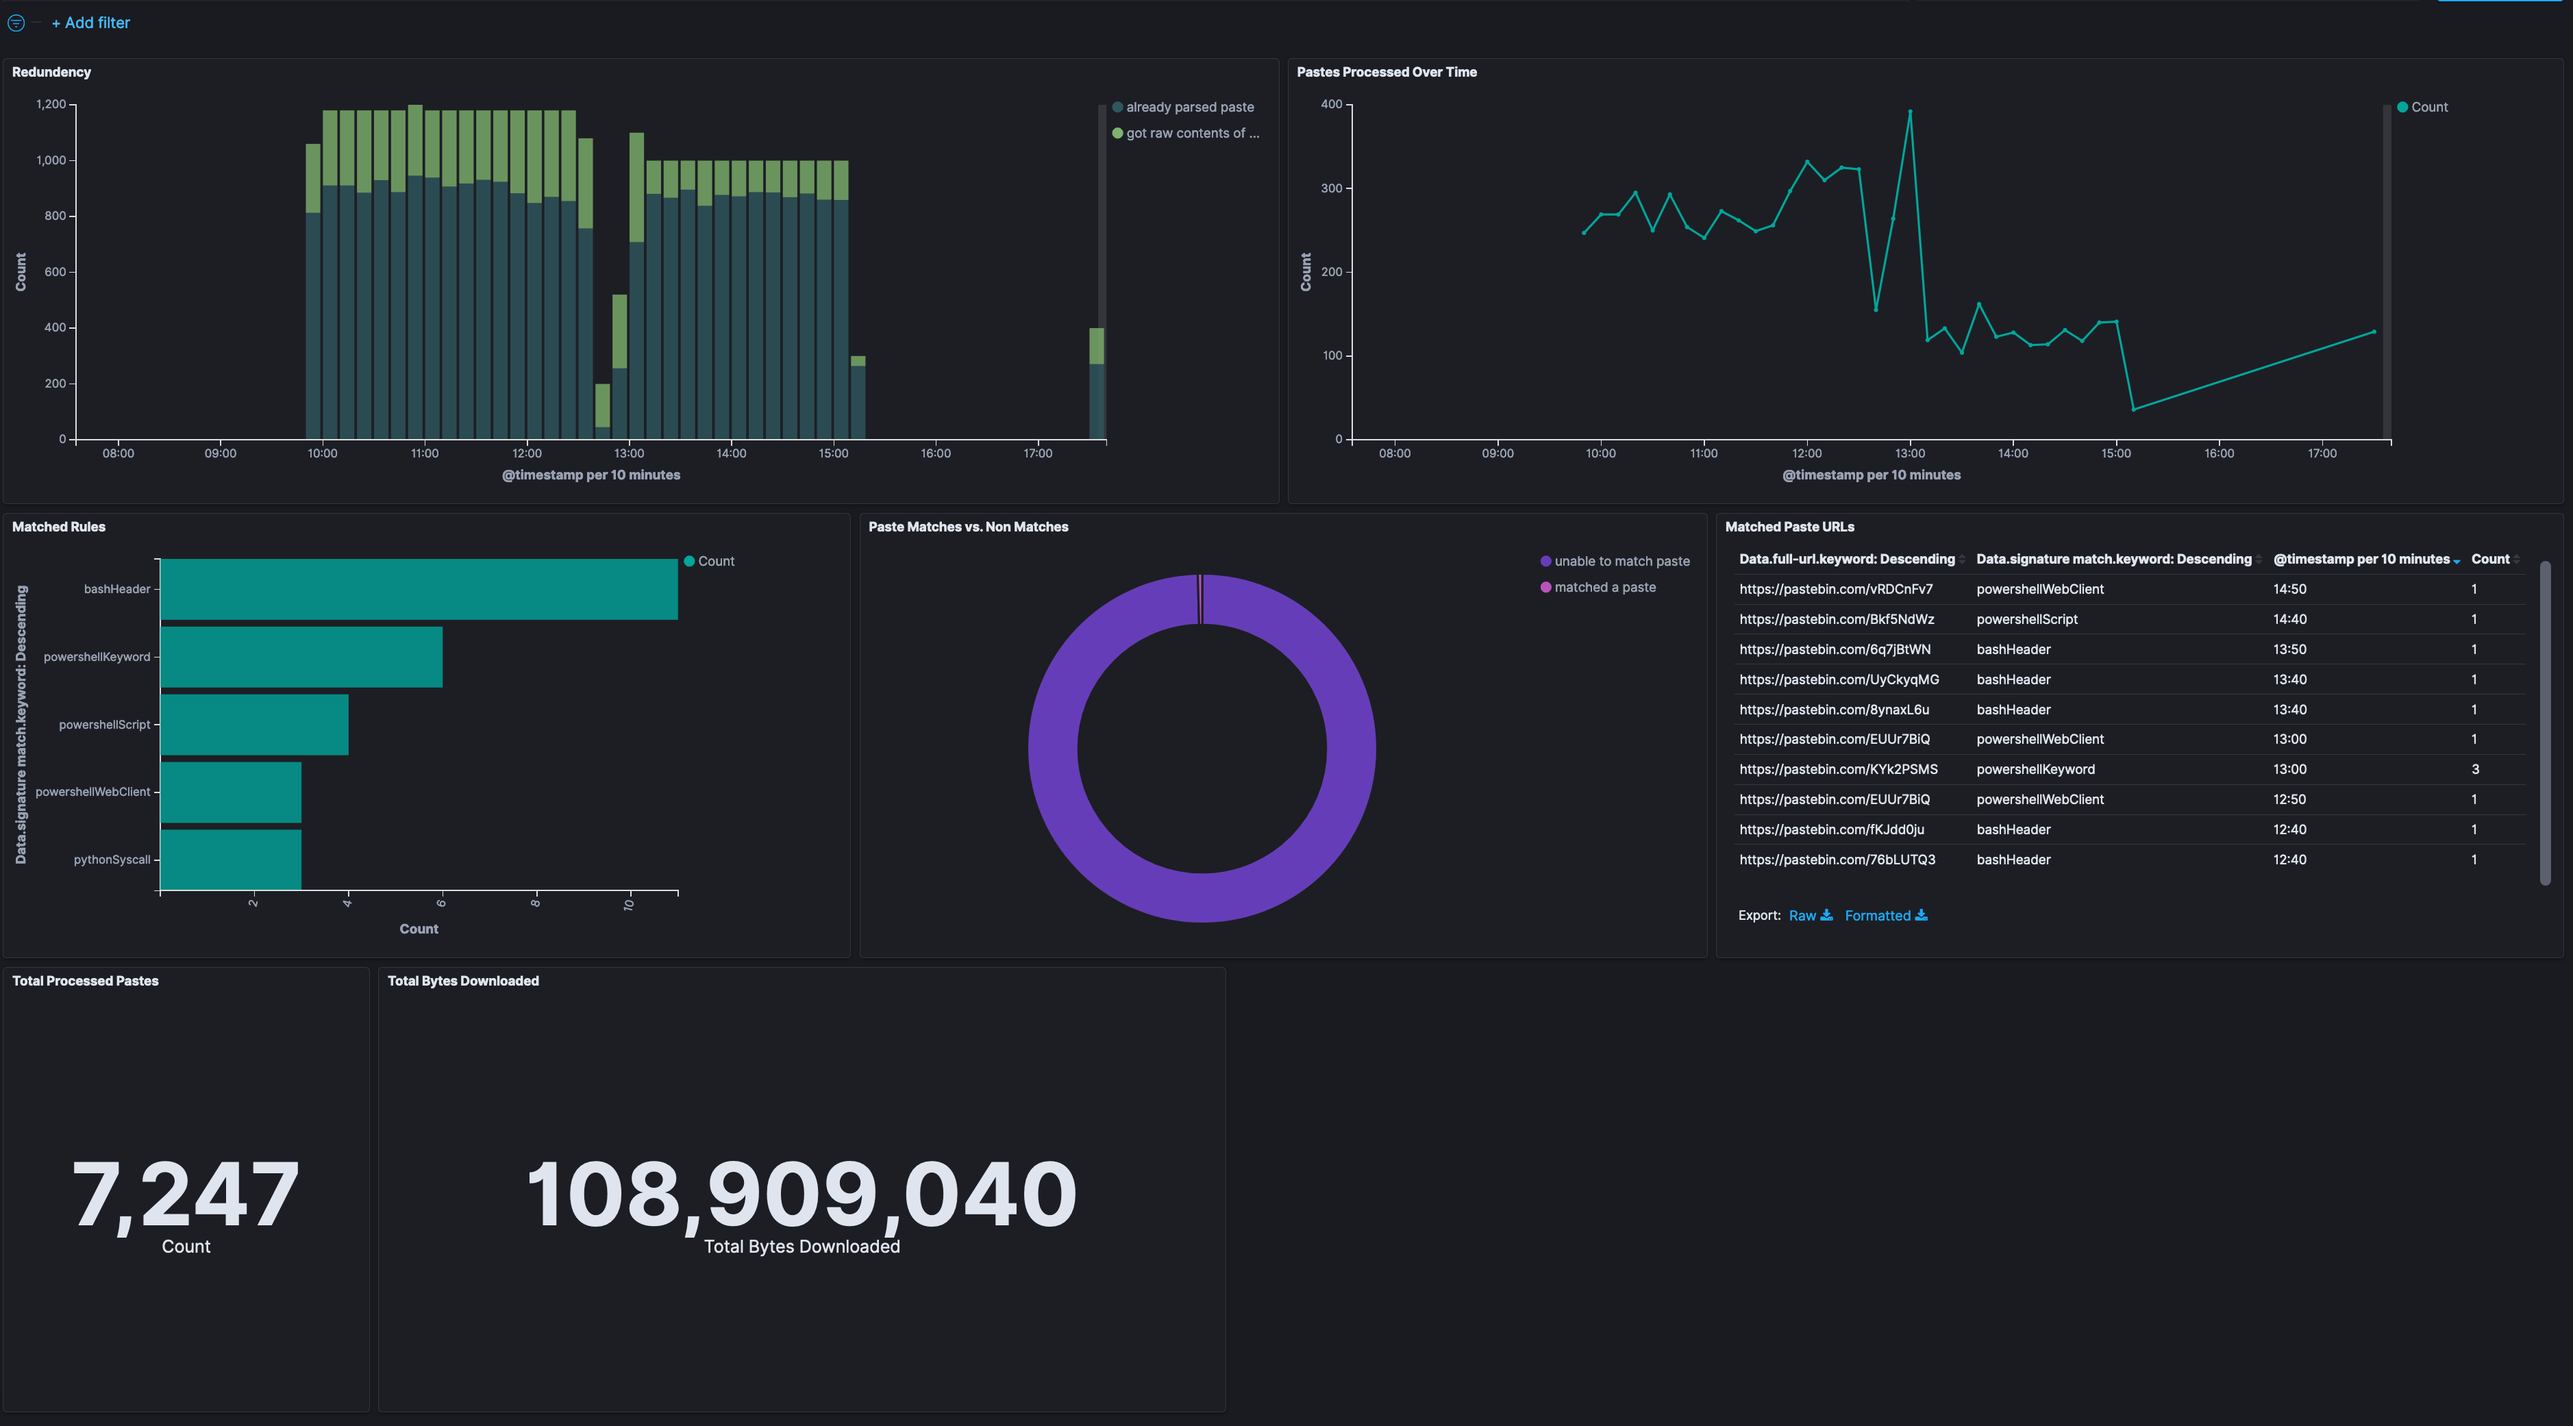
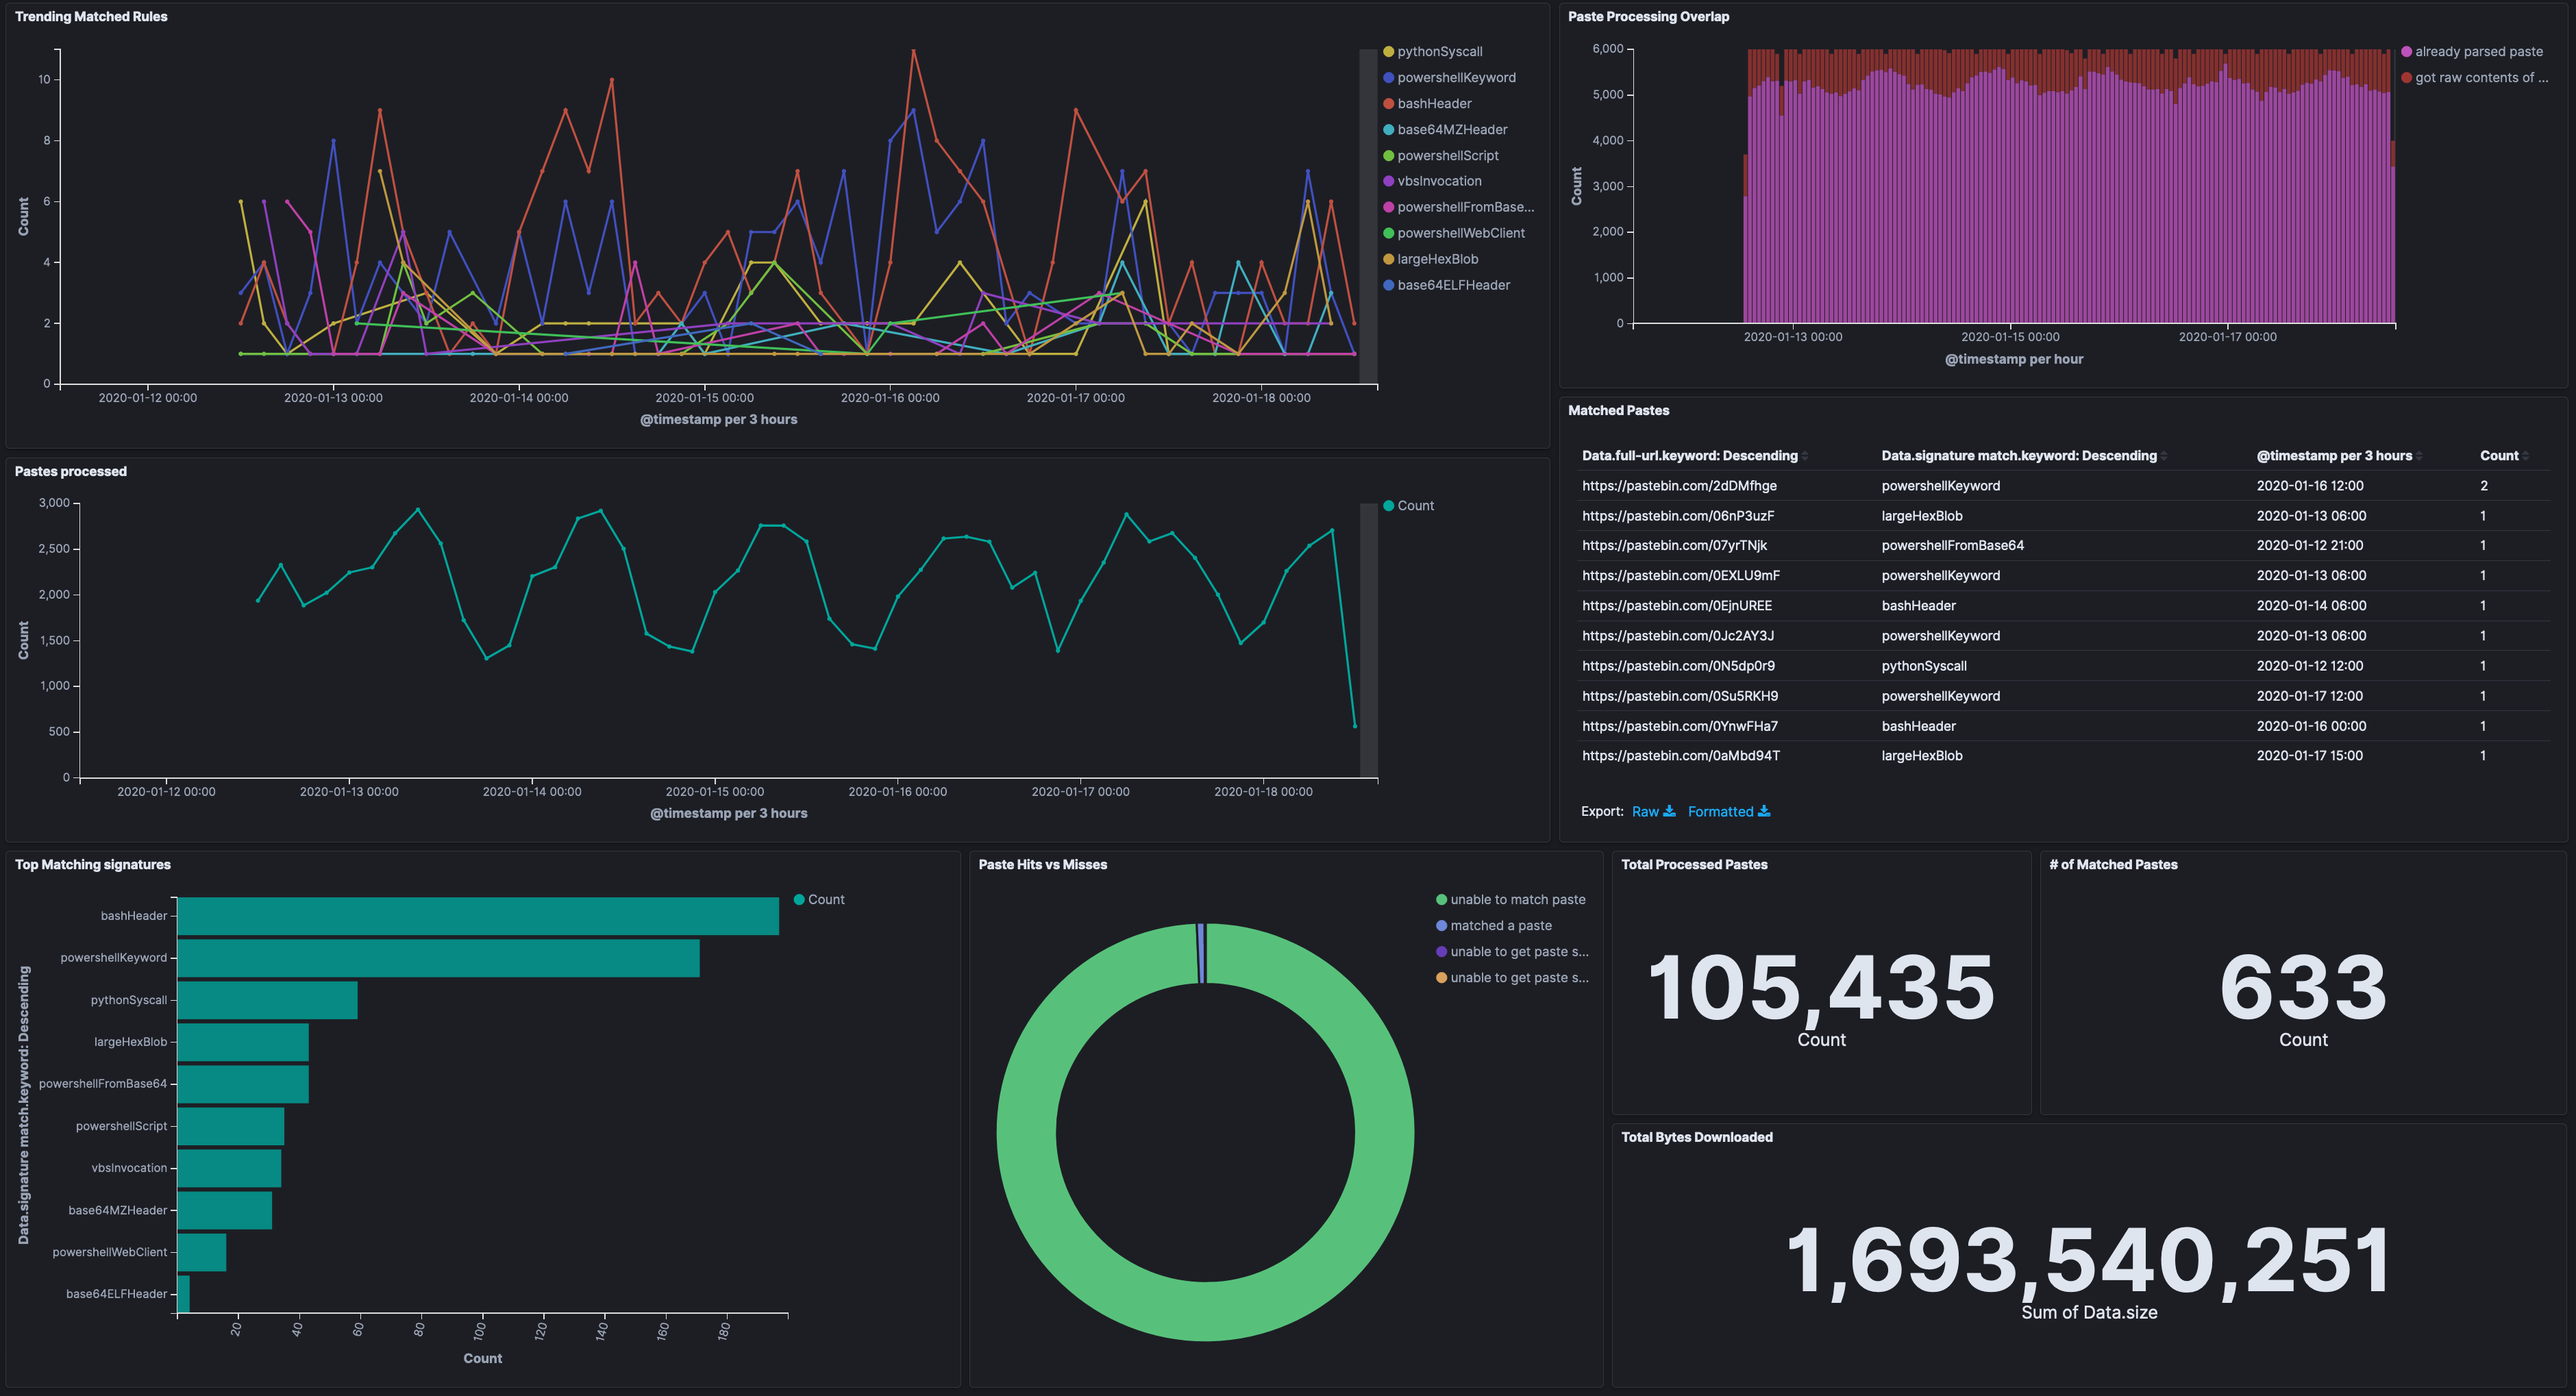
updated readme

diff --git a/README.md b/README.md
@@ -1,5 +1,7 @@
 # pastescraper
 
+![Example Dashboard](screenshots/elk1.png)
+
 A utility to scrape pastebin's incoming feed for known malware techniques.
 
 You must have your ip whitelisted with pastebin for this to work.
@@ -26,7 +28,7 @@ err = scraper.start(context.Background(), time.Second * 10)
 ## Getting Started
 
 ### Standalone Docker Container
-The easiest way to test the service itself is to create the following config file named `config.yml`
+The easiest way to test the service itself is to create the following config file named `config.yml`. The parsers now run in order, so if there is something you are specifically trying to target put those parsers at the beginning. Items at the end of the array should be your catch all such as large hex blobs
 
 ```yaml
 outputdir: "./pastes"
@@ -39,8 +41,7 @@ elastic:
   host: ""
   port: 0
   index: ""
-parsers: ["base64MZHeader", "base64ELFHeader", "powershellKeyword", "powershellScript", "powershellWebClient", "pythonSyscall", "bashHeader", "vbsInvocation", "powershellFromBase64"]
-
+parsers: ["powershellFromBase64", "powershellWebClient", "vbsInvocation", "powershellScript", "powershellKeyword", "pythonSyscall", "bashHeader", "base64MZHeader", "base64ELFHeader", "rawMZHeader", "rawMachOHeader", "reverseBase64MZHeader", "reverseBase64ELFHeader", "largeHexBlob", "base64HighEntropy"]
 ```
 
 Then creating the docker container with
@@ -64,4 +65,3 @@ The config file does support logging to an elasticsearch instance, so if that is
 
 ## Screenshots
 
-![Example Dashboard](screenshots/elk1.png)
